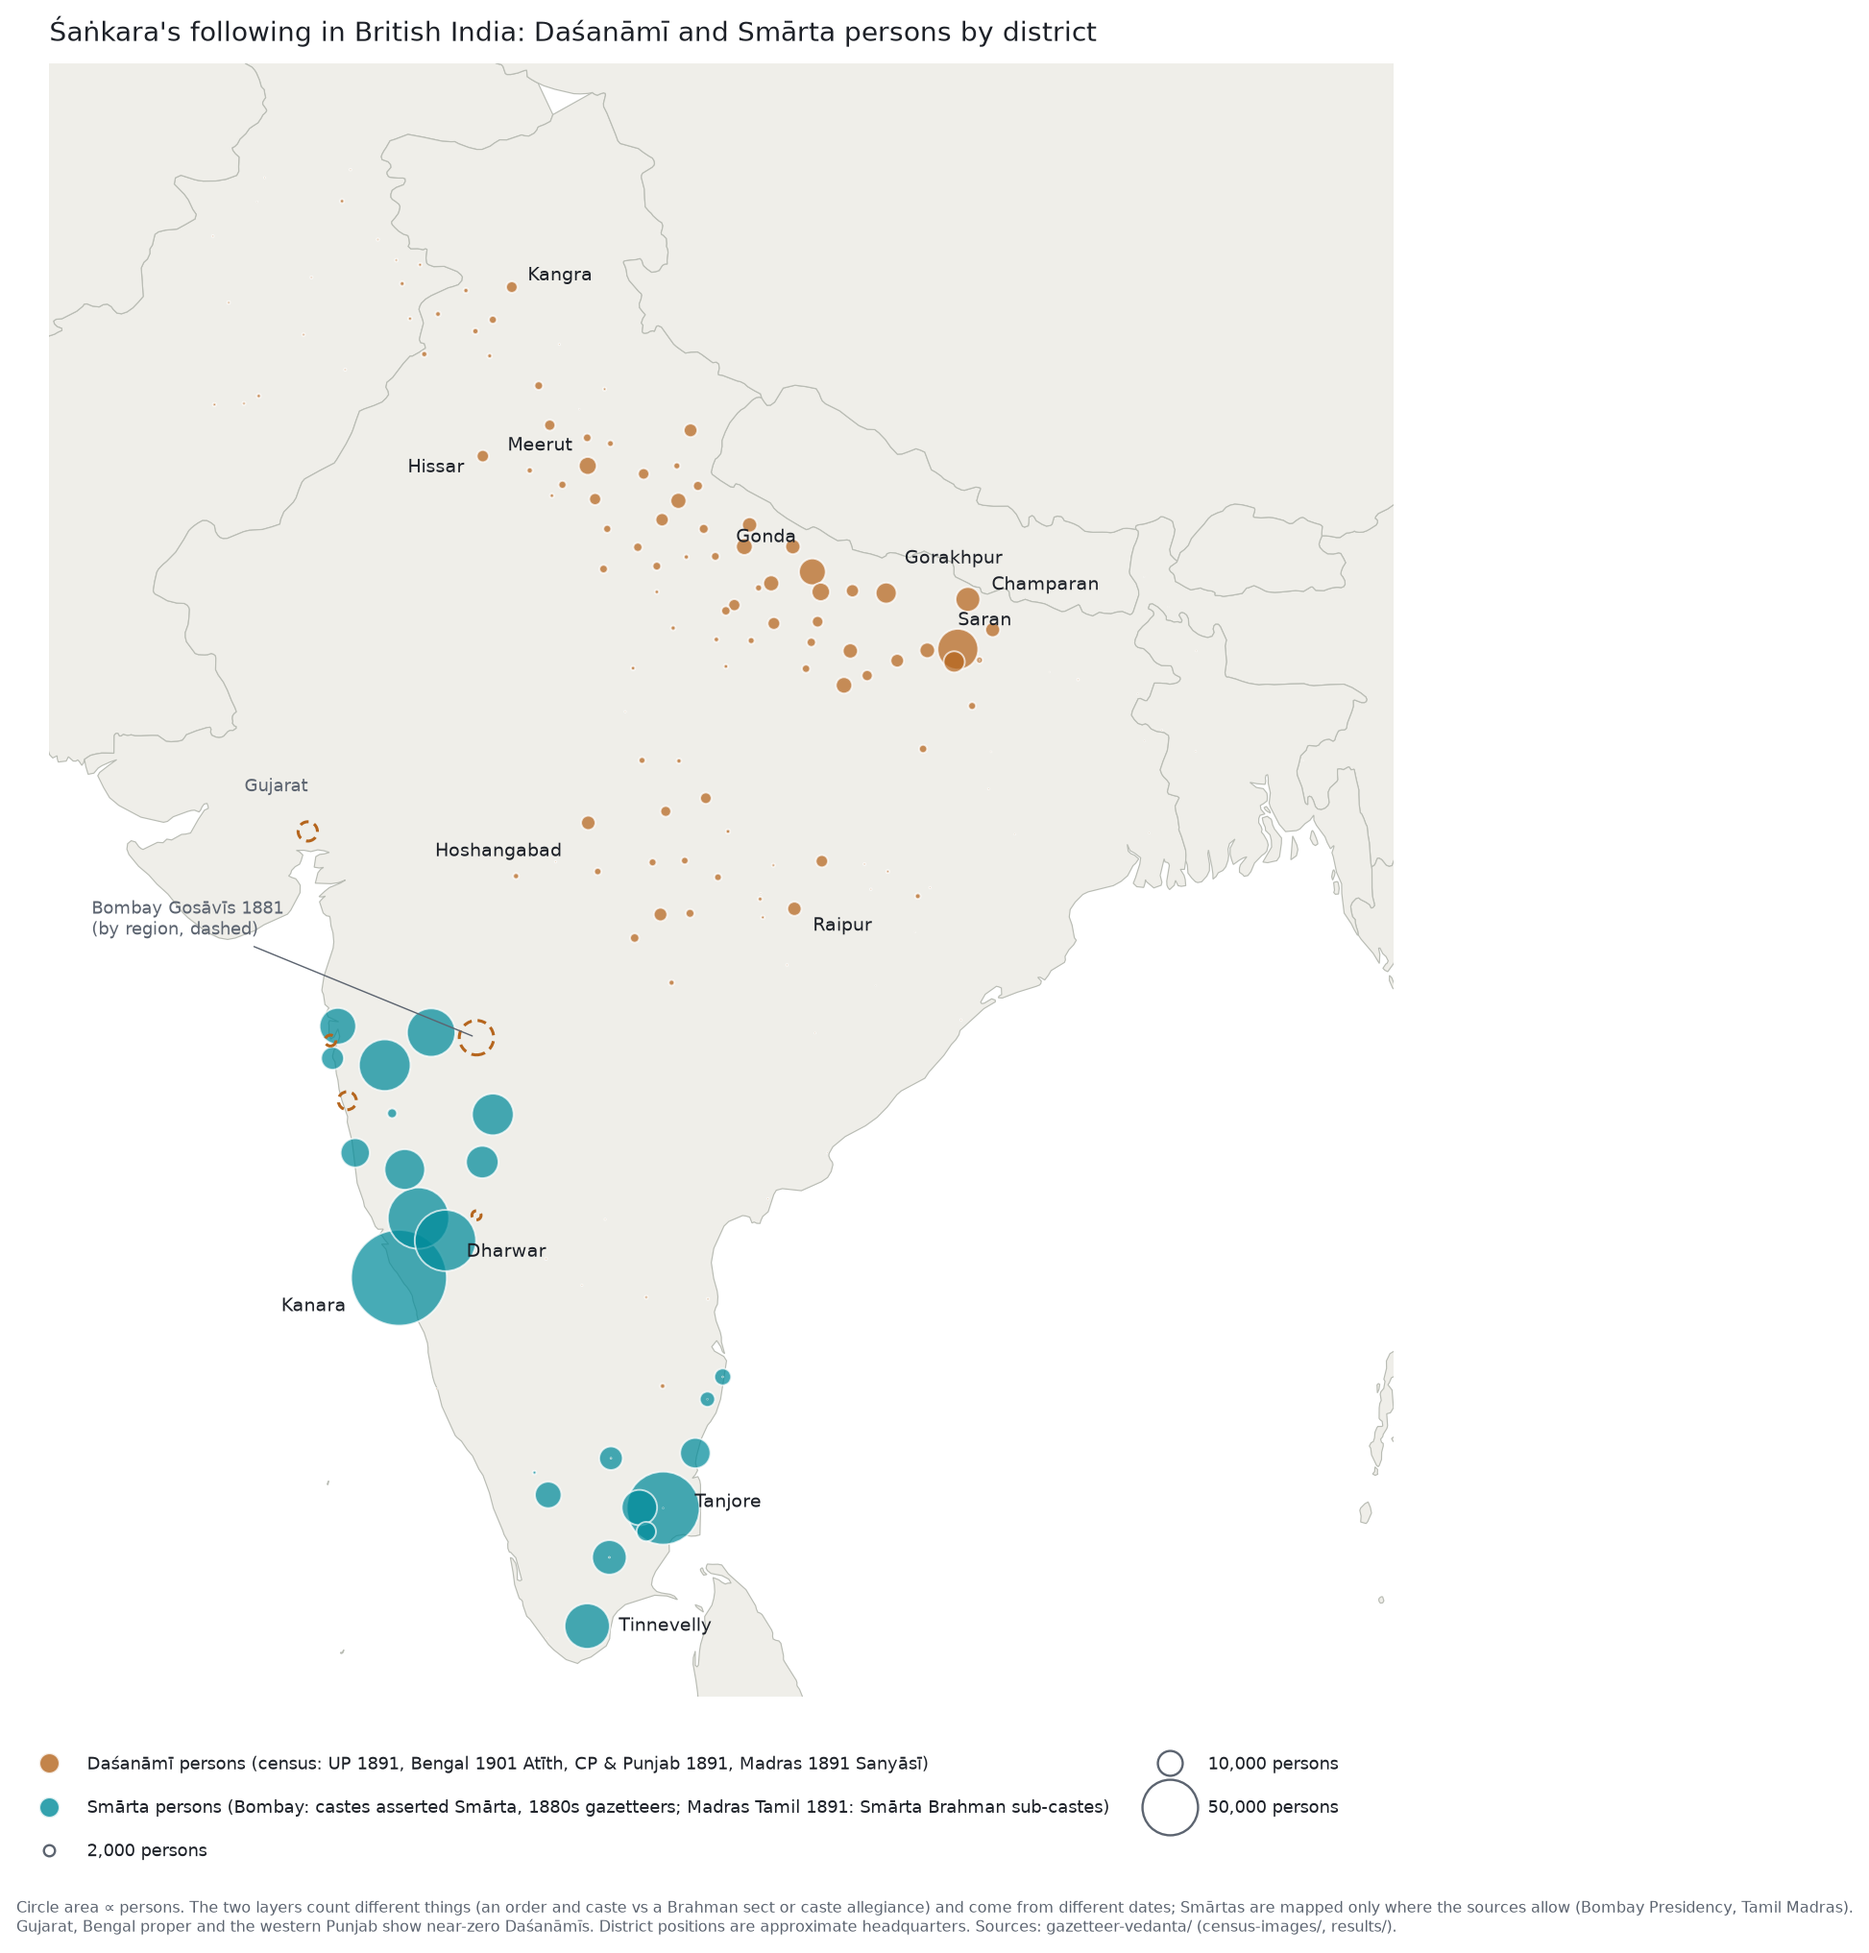
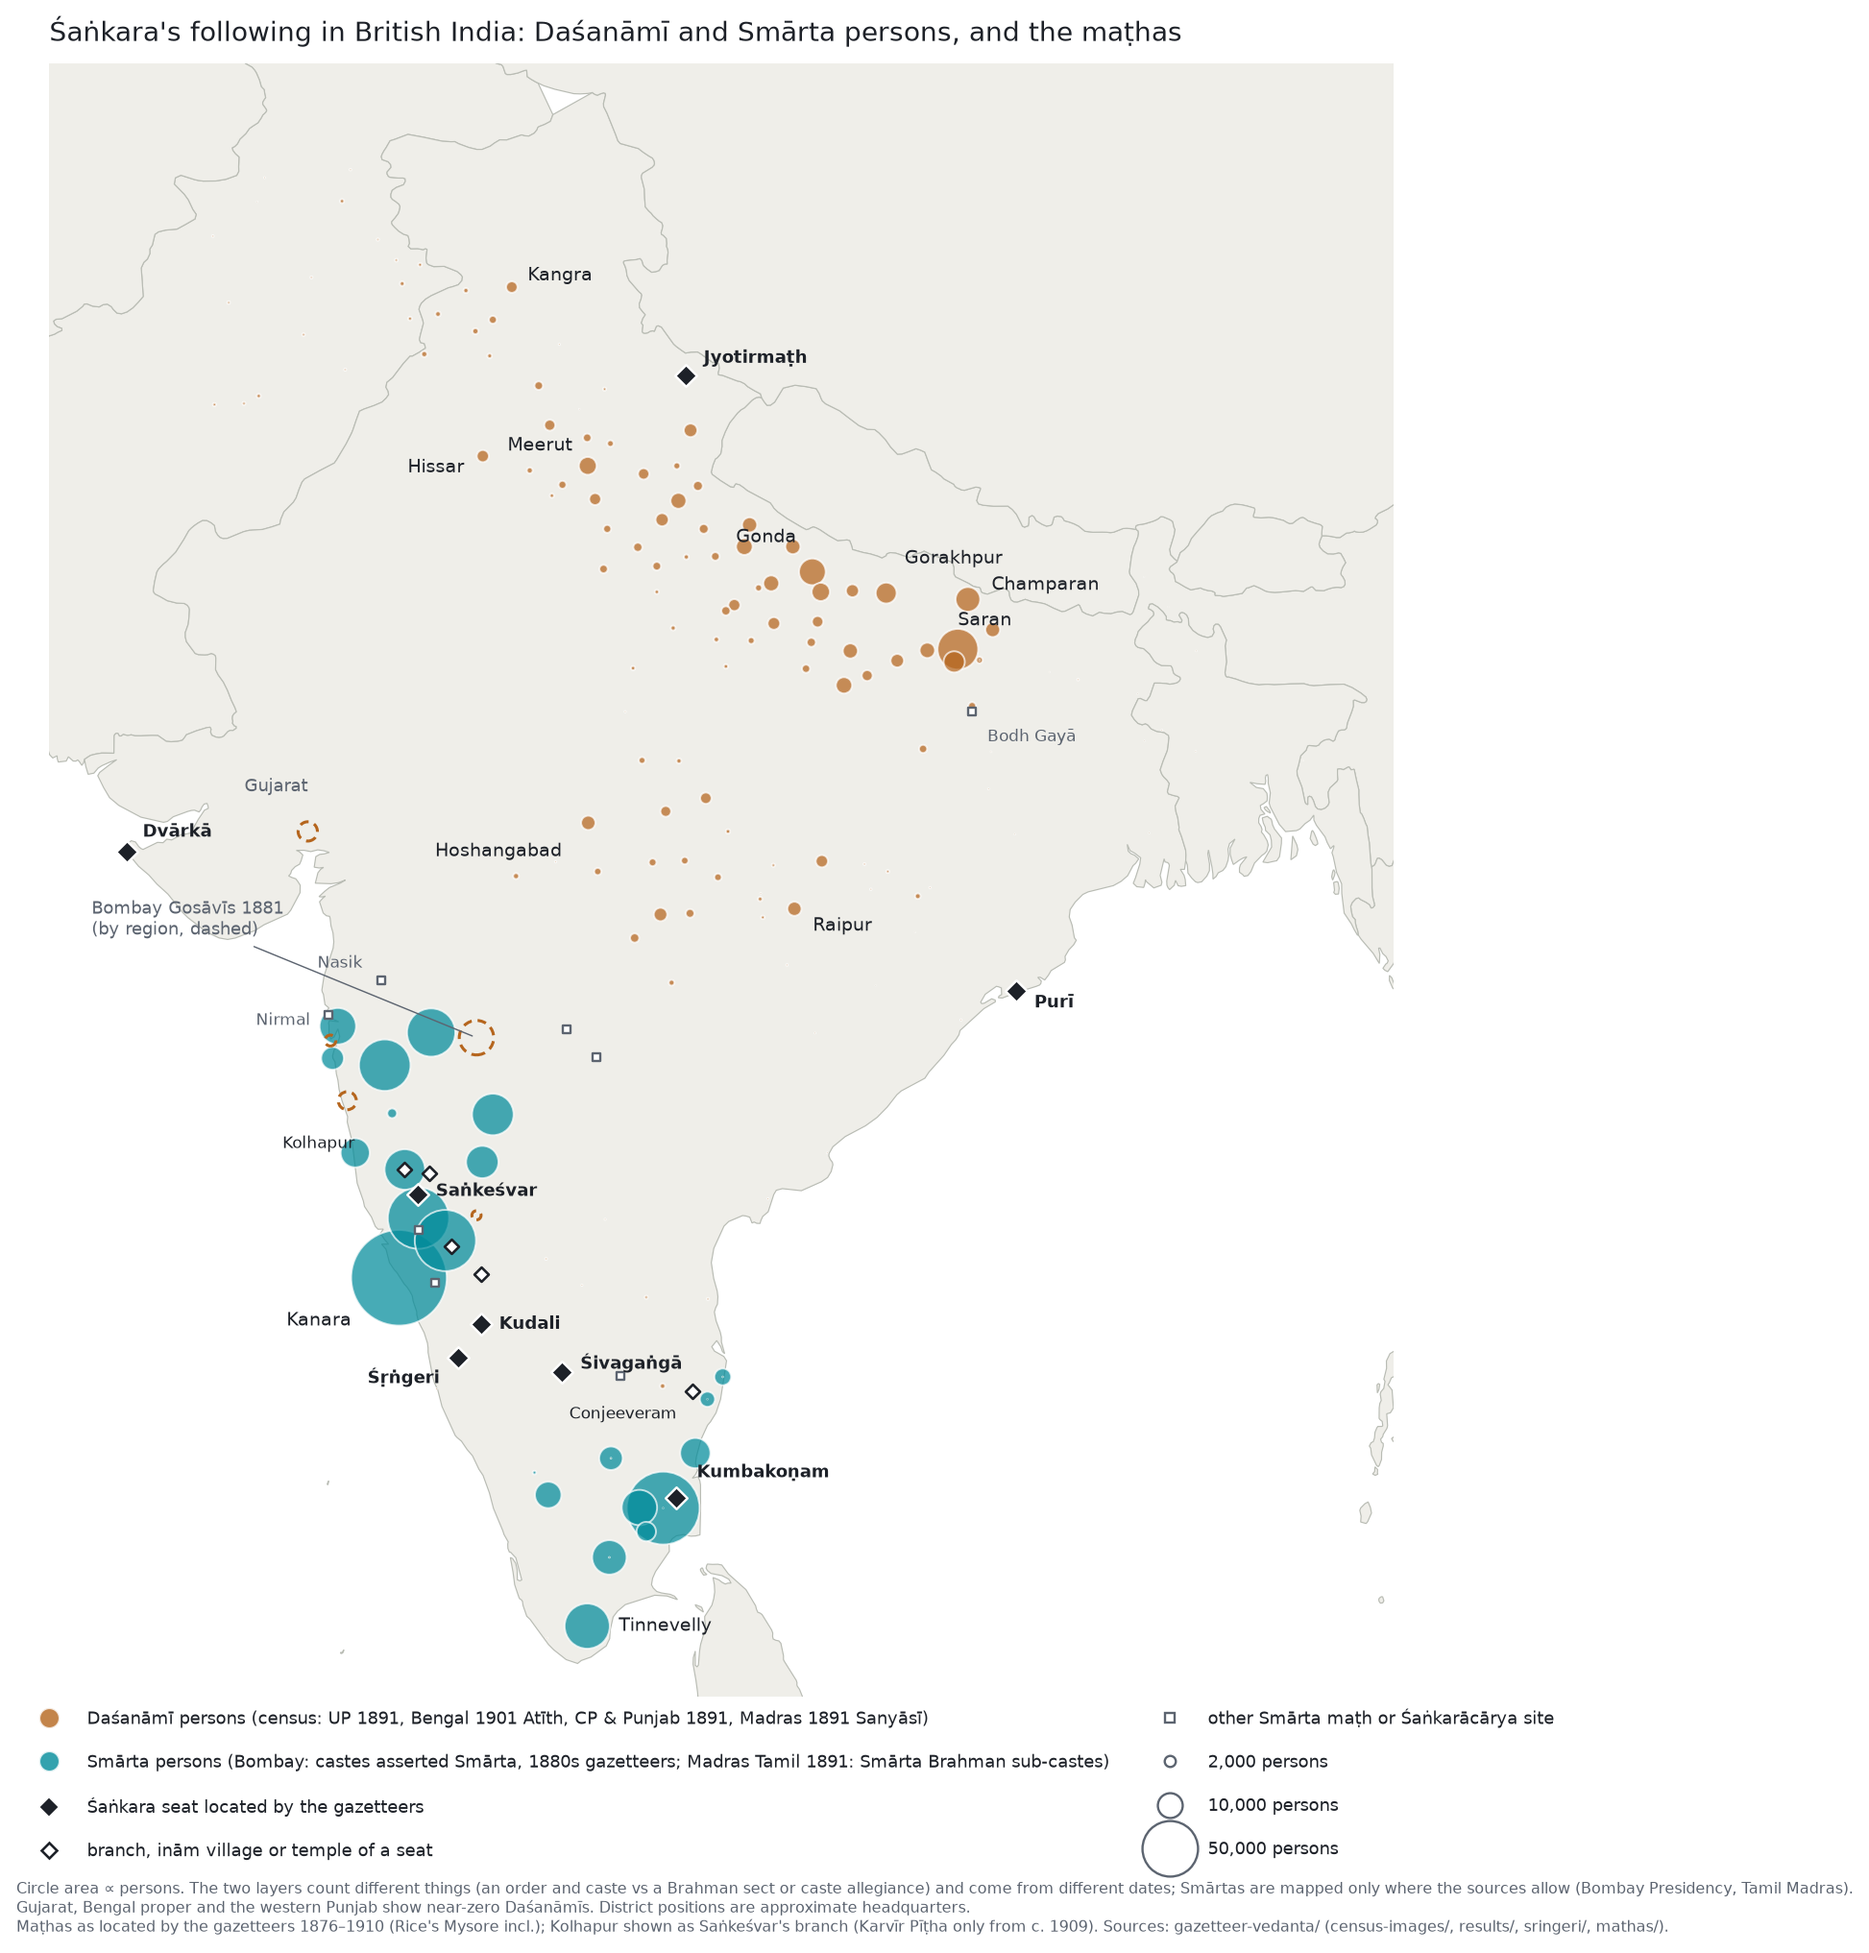
gazetteer-vedanta/map: Śaṅkara seats, branches and other Smārta maṭhs added to the combined map

diff --git a/gazetteer-vedanta/SYNTHESIS.html b/gazetteer-vedanta/SYNTHESIS.html
@@ -110,8 +110,8 @@ footer{font-family:var(--sans);font-size:13.5px;color:var(--muted);border-top:1p
     </tbody>
   </table></div>
   <figure class="map">
-    <a href="map/combined_map.png"><img src="map/combined_map.png" alt="Map of British India. Ochre circles for Daśanāmī persons form a belt across the Ganges plain, largest in eastern UP and Bihar (Saran, Gorakhpur, Gonda, Champaran), thin in the Central Provinces and the Punjab. Teal circles for Smārta persons cluster on the Bombay Konkan and Karnatak, largest in Kanara and Dharwar, and in the Tamil delta, largest in Tanjore." loading="lazy"></a>
-    <figcaption>All six regions on one map. Circle area is proportional to persons. <em class="ochre">Daśanāmīs</em> come from the census: UP, Punjab, CP and Madras 1891, Bengal 1901 (Atīths), and Bombay 1881 Gosāvīs by region only (dashed). <em class="teal">Smārtas</em> come from Bombay castes the 1880s gazetteers call Smārta and from Tamil Madras Smārta Brahman sub-castes (1891). The layers count different things at different dates, and Smārtas are mapped only where the sources allow. Positions are approximate district headquarters.</figcaption>
+    <a href="map/combined_map.png"><img src="map/combined_map.png" alt="Map of British India. Ochre circles for Daśanāmī persons form a belt across the Ganges plain, largest in eastern UP and Bihar (Saran, Gorakhpur, Gonda, Champaran), thin in the Central Provinces and the Punjab. Teal circles for Smārta persons cluster on the Bombay Konkan and Karnatak, largest in Kanara and Dharwar, and in the Tamil delta, largest in Tanjore. Black diamonds mark the Śaṅkara seats: Śṛṅgeri, Saṅkeśvar, Kudali, Śivagaṅgā and Kumbakoṇam in the south and west, Dvārkā, Purī and Jyotirmaṭh at the edges." loading="lazy"></a>
+    <figcaption>All six regions on one map. Circle area is proportional to persons. <em class="ochre">Daśanāmīs</em> come from the census: UP, Punjab, CP and Madras 1891, Bengal 1901 (Atīths), and Bombay 1881 Gosāvīs by region only (dashed). <em class="teal">Smārtas</em> come from Bombay castes the 1880s gazetteers call Smārta and from Tamil Madras Smārta Brahman sub-castes (1891). The layers count different things at different dates, and Smārtas are mapped only where the sources allow. Black diamonds mark the Śaṅkara seats the gazetteers locate (1876–1910, Rice’s Mysore included); open diamonds mark their branches, inām villages and temples; small squares mark other Smārta maṭhs and Śaṅkarācārya sites. Kolhapur appears as Saṅkeśvar’s branch, since it became the Karvīr Pīṭha only about 1909. Positions are approximate district headquarters.</figcaption>
   </figure>
 </section>
 

diff --git a/gazetteer-vedanta/map/plot_combined.py b/gazetteer-vedanta/map/plot_combined.py
@@ -142,11 +142,53 @@ for layer, col, z in (("smarta", TEAL, 2), ("dasnami", OCHRE, 3)):
 for name, (la, lo, n) in GOSAVI_1881.items():
     ax.scatter([lo], [la], s=[n * SCALE], facecolors="none", edgecolors=OCHRE, linewidths=1.3, linestyle=(0, (3, 2)), zorder=4)
 
+# Śaṅkara maṭhas located by the colonial gazetteers (mathas/results/mathas.tsv, sringeri/results/places.tsv).
+# kind: seat = a named Śaṅkara seat; dep = branch, estate or temple of a named seat; other = Smārta house or
+# Śaṅkarācārya site tied to no named seat. (lat, lon, label, dx, dy, ha)
+MATHAS = [
+    ("seat", 13.42, 75.25, "Śṛṅgeri", -0.35, -0.35, "right"),
+    ("seat", 16.27, 74.48, "Saṅkeśvar", 0.35, 0.05, "left"),
+    ("seat", 22.24, 68.97, "Dvārkā", 0.3, 0.35, "left"),
+    ("seat", 30.56, 79.56, "Jyotirmaṭh", 0.35, 0.3, "left"),
+    ("seat", 19.81, 85.83, "Purī", 0.35, -0.2, "left"),
+    ("seat", 10.96, 79.38, "Kumbakoṇam", 0.4, 0.45, "left"),
+    ("seat", 14.00, 75.68, "Kudali", 0.35, 0.0, "left"),
+    ("seat", 13.17, 77.22, "Śivagaṅgā", 0.35, 0.15, "left"),
+    ("dep", 16.70, 74.24, "Kolhapur", -0.95, 0.45, "right"),
+    ("dep", 16.63, 74.70, "", 0, 0, "left"),        # Khidrapur, inām village of Saṅkeśvar
+    ("dep", 14.87, 75.68, "", 0, 0, "left"),        # Hallur, village of the Kudali svāmī
+    ("dep", 15.36, 75.12, "", 0, 0, "left"),        # Hubli, Kudali svāmī's procession privilege
+    ("dep", 12.83, 79.70, "Conjeeveram", -0.3, -0.4, "right"),  # temple managed from Kumbakoṇam
+    ("other", 20.00, 73.79, "Nasik", -0.35, 0.3, "right"),
+    ("other", 19.40, 72.80, "Nirmal", -0.35, -0.1, "right"),
+    ("other", 24.70, 84.99, "Bodh Gayā", 0.3, -0.45, "left"),
+    ("other", 14.72, 74.82, "", 0, 0, "left"),      # Sonda, Svarṇavallī
+    ("other", 13.10, 78.33, "", 0, 0, "left"),      # Avani, Smārta guru
+    ("other", 18.66, 77.88, "", 0, 0, "left"),      # Bodhan, Bhāskarācārya
+    ("other", 19.15, 77.31, "", 0, 0, "left"),      # Nander, Bhāskarācārya
+    ("other", 15.64, 74.51, "", 0, 0, "left"),      # Khanapur, Shenvi Smārta svāmī
+]
+MSTYLE = {"seat": dict(marker="D", s=46, c=INK, edgecolors="white", linewidths=1.0),
+          "dep": dict(marker="D", s=20, facecolors="white", edgecolors=INK, linewidths=1.1),
+          "other": dict(marker="s", s=14, facecolors="white", edgecolors=MUTED, linewidths=1.0)}
+for kind in ("other", "dep", "seat"):
+    P = [m for m in MATHAS if m[0] == kind]
+    ax.scatter([m[2] for m in P], [m[1] for m in P], zorder=7, **MSTYLE[kind])
+for kind, la, lo, txt, dx, dy, ha in MATHAS:
+    if txt:
+        ax.annotate(txt, (lo, la), xytext=(lo + dx, la + dy), fontsize=7.6 if kind == "seat" else 7, zorder=8,
+                    color=INK if kind != "other" else MUTED, fontweight="bold" if kind == "seat" else "normal",
+                    ha=ha, va="center")
+with open("map/mathas_points.tsv", "w", encoding="utf-8") as f:
+    f.write("kind\tlat\tlon\tlabel\n")
+    for m in MATHAS:
+        f.write(f"{m[0]}\t{m[1]}\t{m[2]}\t{m[3]}\n")
+
 LABEL = {  # selective direct labels: the places the text discusses
-    "Kanara": ("Kanara", -1, -0.5), "Tanjore": ("Tanjore", 0.6, 0.1), "Tinnevelly": ("Tinnevelly", 0.6, 0),
+    "Kanara": ("Kanara", -0.9, -0.75), "Tinnevelly": ("Tinnevelly", 0.6, 0),
     "Saran": ("Saran", 0, 0.5), "Gonda": ("Gonda", -0.3, 0.6), "Gorakhpur": ("Gorakhpur", 0.35, 0.6),
     "Champaran": ("Champaran", 0.45, 0.25), "Kangra": ("Kangra", 0.3, 0.2), "Hissar": ("Hissar", -0.35, -0.2),
-    "Hoshangabad": ("Hoshangabad", -0.5, -0.5), "Raipur": ("Raipur", 0.35, -0.3), "Dharwar": ("Dharwar", 0.4, -0.2),
+    "Hoshangabad": ("Hoshangabad", -0.5, -0.5), "Raipur": ("Raipur", 0.35, -0.3),
     "Meerut": ("Meerut", -0.3, 0.35),
 }
 for d, (txt, dx, dy) in LABEL.items():
@@ -165,19 +207,23 @@ for s in ax.spines.values():
 handles = [Line2D([], [], marker="o", ls="", ms=9, mfc=OCHRE, mec="white", alpha=0.8,
                   label="Daśanāmī persons (census: UP 1891, Bengal 1901 Atīth, CP & Punjab 1891, Madras 1891 Sanyāsī)"),
            Line2D([], [], marker="o", ls="", ms=9, mfc=TEAL, mec="white", alpha=0.8,
-                  label="Smārta persons (Bombay: castes asserted Smārta, 1880s gazetteers; Madras Tamil 1891: Smārta Brahman sub-castes)")]
+                  label="Smārta persons (Bombay: castes asserted Smārta, 1880s gazetteers; Madras Tamil 1891: Smārta Brahman sub-castes)"),
+           Line2D([], [], marker="D", ls="", ms=6.5, mfc=INK, mec="white", label="Śaṅkara seat located by the gazetteers"),
+           Line2D([], [], marker="D", ls="", ms=4.5, mfc="white", mec=INK, mew=1.1, label="branch, inām village or temple of a seat"),
+           Line2D([], [], marker="s", ls="", ms=4, mfc="white", mec=MUTED, label="other Smārta maṭh or Śaṅkarācārya site")]
 for n in (2000, 10000, 50000):
     handles.append(Line2D([], [], marker="o", ls="", ms=(n * SCALE) ** 0.5, mfc="none", mec=MUTED, label=f"{n:,} persons"))
 leg = fig.legend(handles=handles, loc="lower left", bbox_to_anchor=(0.02, 0.04), fontsize=7.6, frameon=False,
                 labelspacing=1.5, handletextpad=1.2, ncol=2, columnspacing=2.5)
 for t in leg.get_texts():
     t.set_color(INK)
-ax.set_title("Śaṅkara's following in British India: Daśanāmī and Smārta persons by district",
+ax.set_title("Śaṅkara's following in British India: Daśanāmī and Smārta persons, and the maṭhas",
              fontsize=12, color=INK, loc="left", pad=10)
 fig.text(0.02, 0.012, "Circle area ∝ persons. The two layers count different things (an order and caste vs a Brahman sect "
          "or caste allegiance) and come from different dates; Smārtas are mapped only where the sources allow "
          "(Bombay Presidency, Tamil Madras).\nGujarat, Bengal proper and the western Punjab show near-zero Daśanāmīs. "
-         "District positions are approximate headquarters. Sources: gazetteer-vedanta/ (census-images/, results/).",
+         "District positions are approximate headquarters.\nMaṭhas as located by the gazetteers 1876–1910 (Rice's Mysore incl.); Kolhapur shown as Saṅkeśvar's branch (Karvīr Pīṭha only from c. 1909). "
+         "Sources: gazetteer-vedanta/ (census-images/, results/, sringeri/, mathas/).",
          fontsize=6.6, color=MUTED)
 plt.savefig("map/combined_map.png", bbox_inches="tight", facecolor=SEA)
 print(len(pts), "points; not placed:", missing)

diff --git a/gazetteer-vedanta/README.md b/gazetteer-vedanta/README.md
@@ -21,7 +21,7 @@ British India. In the colonial record the tradition takes two forms:
 | Punjab | Daśanāmīs | Punjab District Gazetteers 1883–84 and revised (1897–1918); Rose's *Glossary* (1911–19) | `punjab/README.md` |
 | Central Provinces and Berar | Daśanāmīs | Grant's *Gazetteer* (1870); CP District Gazetteers (1905–11); Russell & Hira Lal (1916) | `cp/README.md` |
 | revised state gazetteers (third date) | continuity of the earlier institutions and allegiances, 1954–1989 | 37 revised district gazetteers (Maharashtra, Mysore/Karnataka, Madras, UP, Bihar, West Bengal, Orissa, Haryana, MP) | `revised/README.md` |
-| combined map (all six regions) | Daśanāmī and Smārta persons by district on one map | the census tables and `results/smarta_range.tsv` | `map/combined_map.png` (`map/plot_combined.py`, points in `map/combined_points.tsv`) |
+| combined map (all six regions) | Daśanāmī and Smārta persons by district, with the Śaṅkara maṭhs, on one map | the census tables and `results/smarta_range.tsv` | `map/combined_map.png` (`map/plot_combined.py`, points in `map/combined_points.tsv`) |
 | Śṛṅgeri in the Places chapters | where the maṭha, its branches and estates are located | Places chapters of all volumes; Kanara XV-2, Thana XIV, Poona XVIII-3; Rice's *Mysore* (1876, 1897) | `sringeri/README.md` |
 | all Śaṅkara maṭhas (Saṅkeśvar, Karvīr, Kudali, Dvārkā, Jyotirmaṭh, Govardhana, Kumbakoṇam, Śivagaṅgā …) | where each seat and branch is located and what is said there | all volumes, coded by region | `mathas/README.md` |
 | census caste tables (all regions) | headcounts | UP 1891, Bengal 1901, Bombay 1881, Punjab 1891, CP 1891, Madras 1891, read from page images | `census-images/README.md` |

diff --git a/gazetteer-vedanta/SYNTHESIS.md b/gazetteer-vedanta/SYNTHESIS.md
@@ -34,7 +34,7 @@ serving temples.
 
 ![Daśanāmī (ochre) and Smārta (teal) persons by district across the six regions](map/combined_map.png)
 
-Circle area is proportional to persons. The Daśanāmī layer comes from the census tables, and the Smārta layer covers Bombay and Tamil Madras only. See `map/plot_combined.py`.
+Circle area is proportional to persons. The Daśanāmī layer comes from the census tables, and the Smārta layer covers Bombay and Tamil Madras only. Diamonds mark the Śaṅkara seats (filled) and their branches, inām villages and temples (open) as the gazetteers locate them; squares mark other Smārta maṭhs (`mathas/README.md`). See `map/plot_combined.py`.
 
 1. **The west-coast belt under Śṛṅgeri.** This is the one region where a Śaṅkara seat commands much of the
    population, non-Brahmins included.
